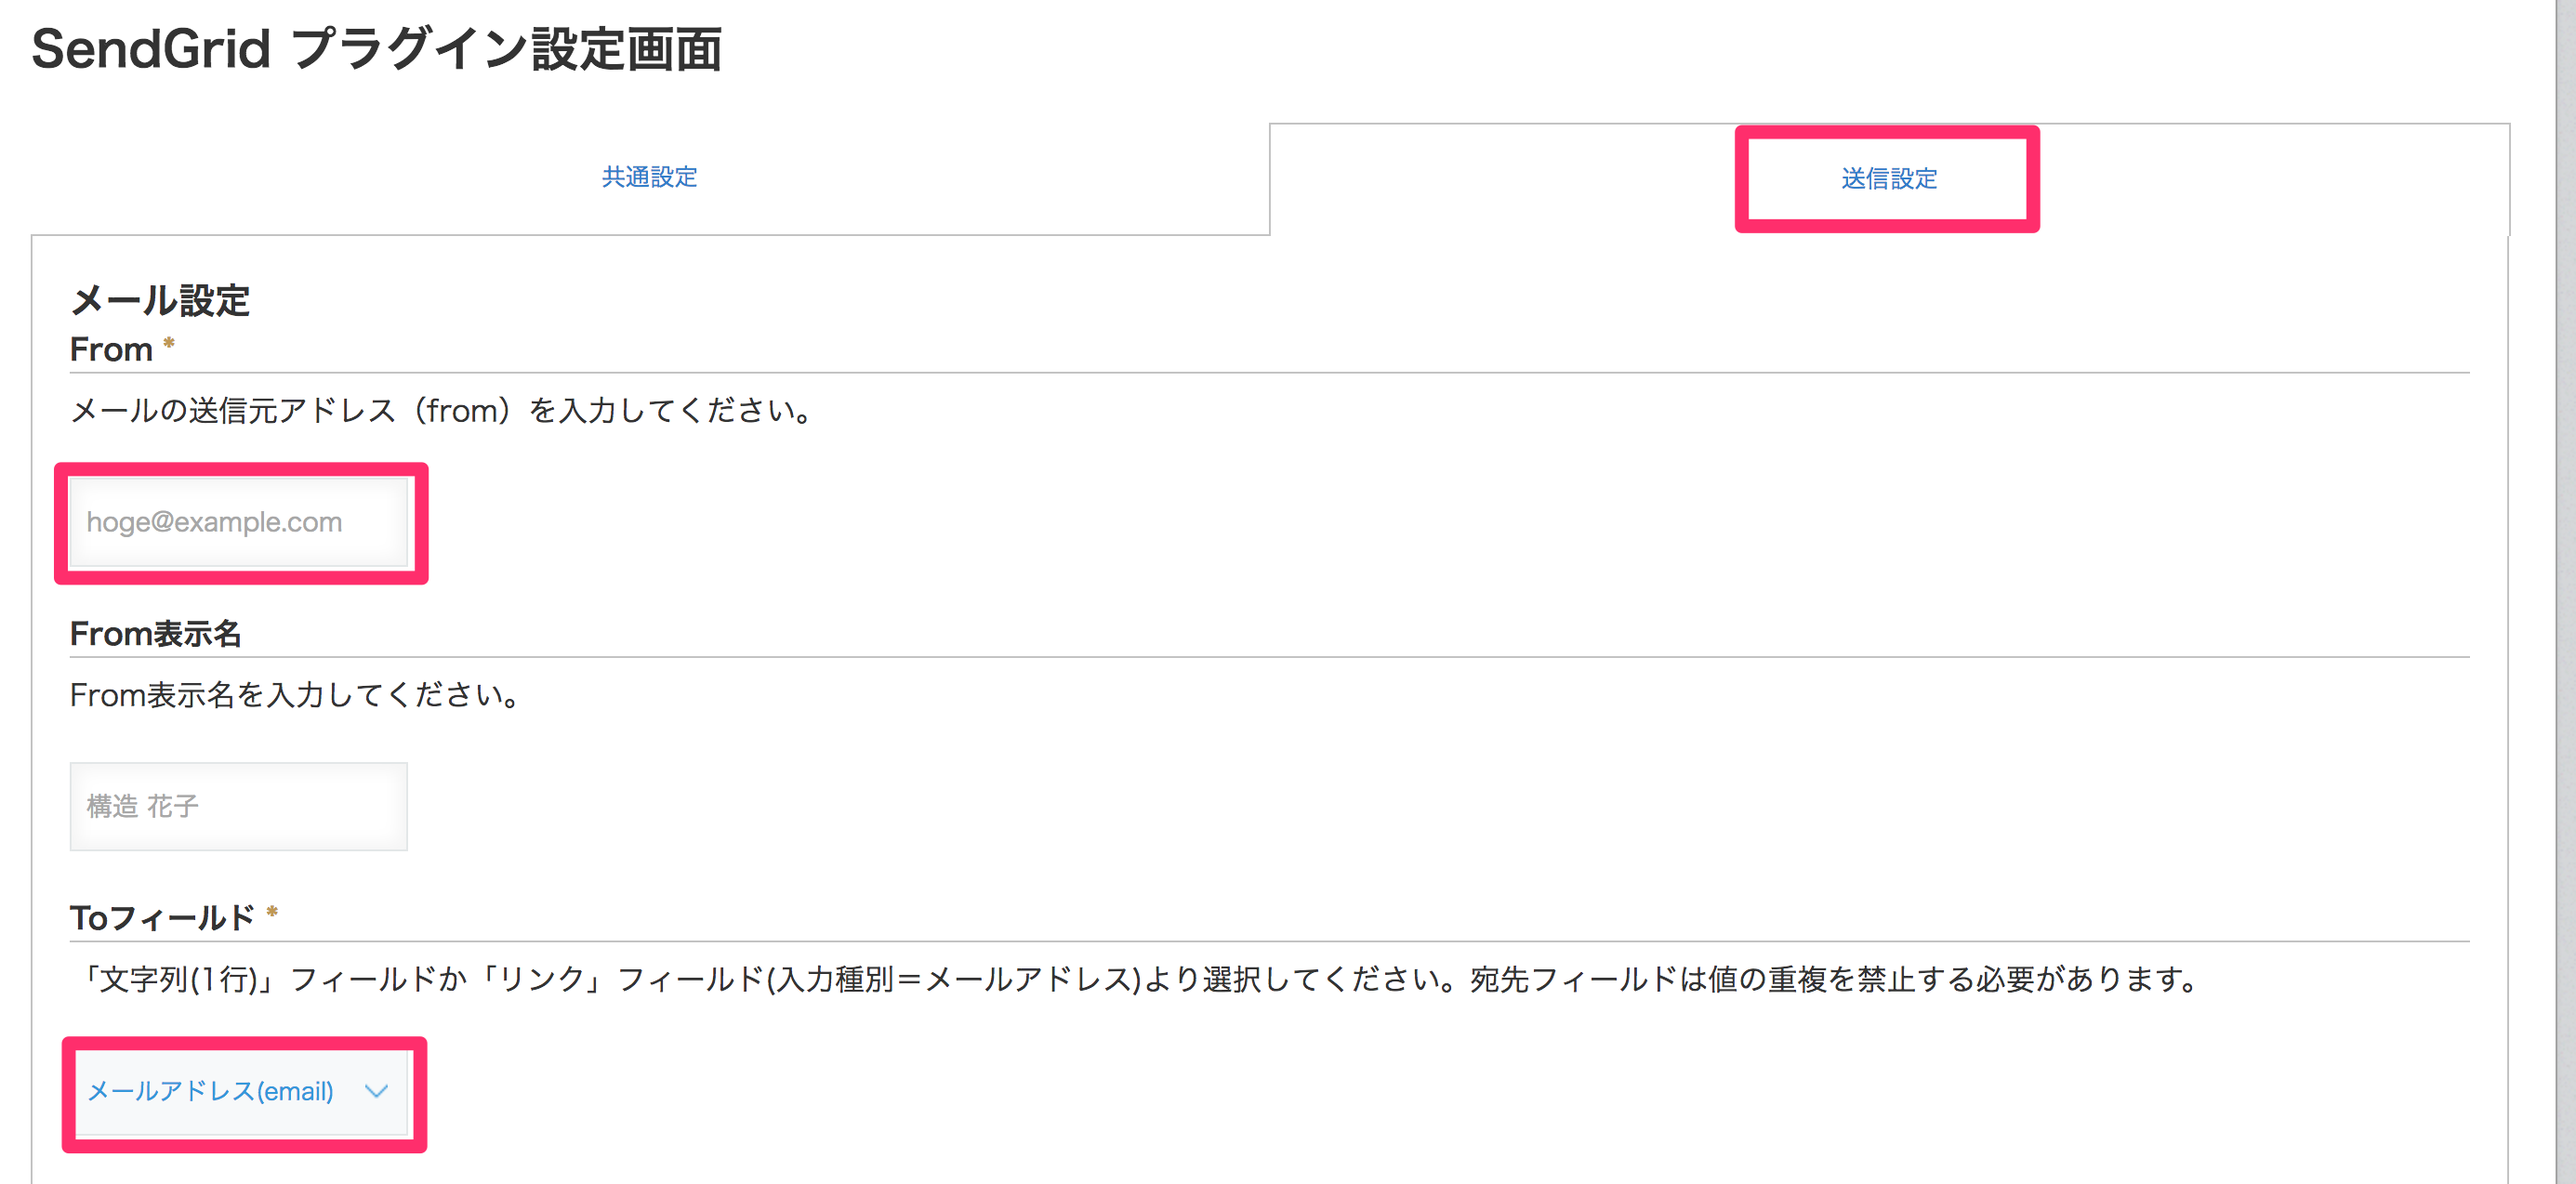
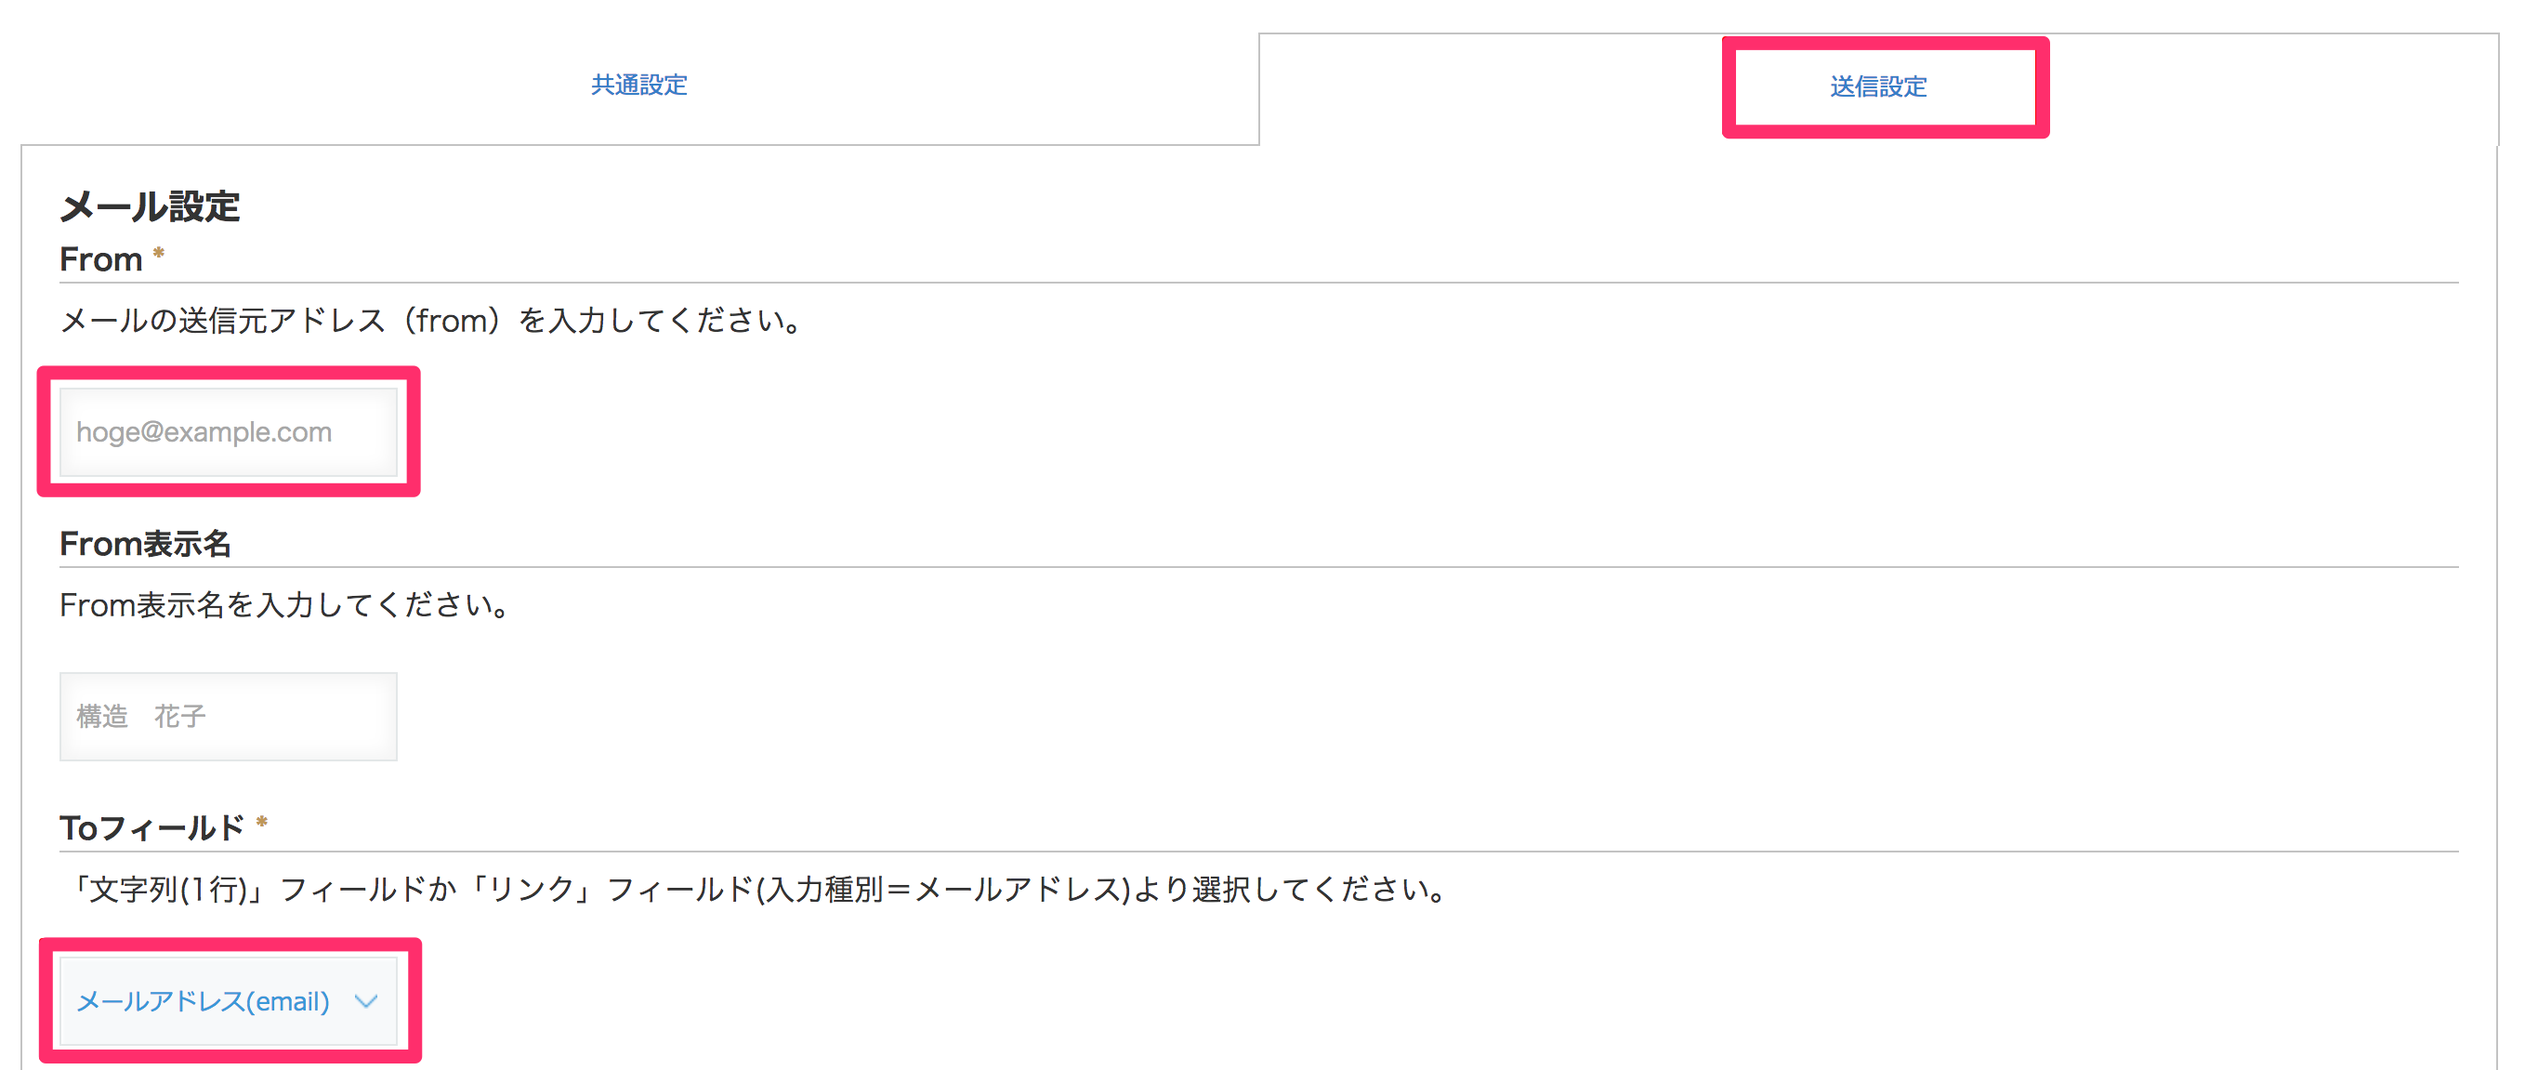
Remove restriction for to field

diff --git a/sendgrid/js/SendGridConfig.js b/sendgrid/js/SendGridConfig.js
@@ -30,7 +30,7 @@ jQuery.noConflict();
       $('#email_from_name_container_label').text('From表示名');
       $('#email_from_name_help_label').text('From表示名を入力してください。');
       $('#email_to_container_label').text('Toフィールド');
-      $('#email_to_help_label').text('「文字列(1行)」フィールドか「リンク」フィールド(入力種別＝メールアドレス)より選択してください。宛先フィールドは値の重複を禁止する必要があります。');
+      $('#email_to_help_label').text('「文字列(1行)」フィールドか「リンク」フィールド(入力種別＝メールアドレス)より選択してください。');
 
       $('#content_type_label').text('送信するメール本文のタイプ');
       $('#content_type_multipart_label').text('マルチパートメール (テキスト+HTML)');
@@ -316,8 +316,7 @@ jQuery.noConflict();
       var knFields = resp.properties;
 
       for (var i = 0; i < knFields.length; i++) {
-        if (knFields[i].unique === 'true' &&
-          (knFields[i].type === 'SINGLE_LINE_TEXT' ||
+        if ((knFields[i].type === 'SINGLE_LINE_TEXT' ||
           (knFields[i].type === 'LINK' && knFields[i].protocol === 'MAIL')))
         {
           var op = $('<option/>');

diff --git a/sendgrid/html/SendGridConfig.html b/sendgrid/html/SendGridConfig.html
@@ -72,7 +72,7 @@
           </div>
           <div class="kintoneplugin-row">
             <span id="email_to_help_label">
-              Select the [Text(single-line)] or the [Link(Type is E-mail address)] field which is prohibited duplicate values for the recipient address.
+              Select the [Text(single-line)] or the [Link(Type is E-mail address)] field.
             </span>
           </div>
           <div class="kintoneplugin-select-outer">

diff --git a/docs/index.md b/docs/index.md
@@ -17,18 +17,7 @@
 ## kintoneアプリの準備
 SendGrid kintoneプラグインが動作するためにアプリ側では宛先アドレスを格納するフィールドが必要になります。宛先アドレスを格納するフィールドは次の条件を満たしている必要があります。
 
-- 値の重複を禁止していること
 - 「文字列(1行)」フィールドまたは、「リンク」フィールド(入力値の種類＝メールアドレス)であること
-
-具体的な設定画面は次のとおりです。
-
-- 文字列(1行)フィールドの場合  
-値の重複を禁止する必要があります。
-![](images/app1.png)
-
-- リンクフィールドの場合  
-値の重複を禁止し、入力値の種類を「メールアドレス」にする必要があります。
-![](images/app2.png)
 
 ## プラグインのインストールと有効化
 
